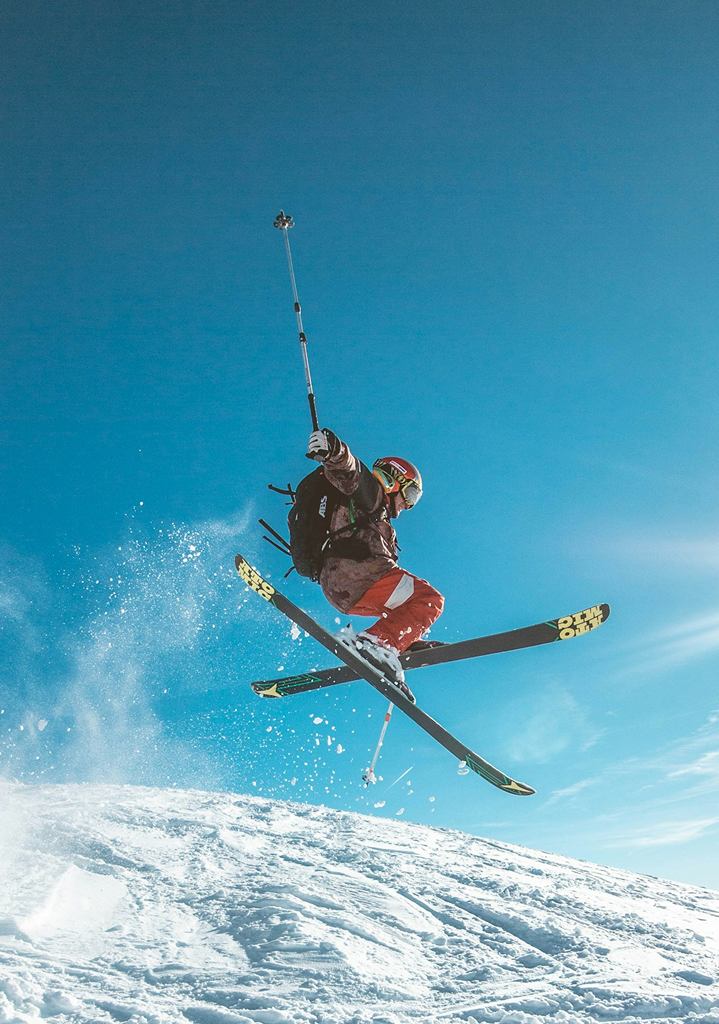
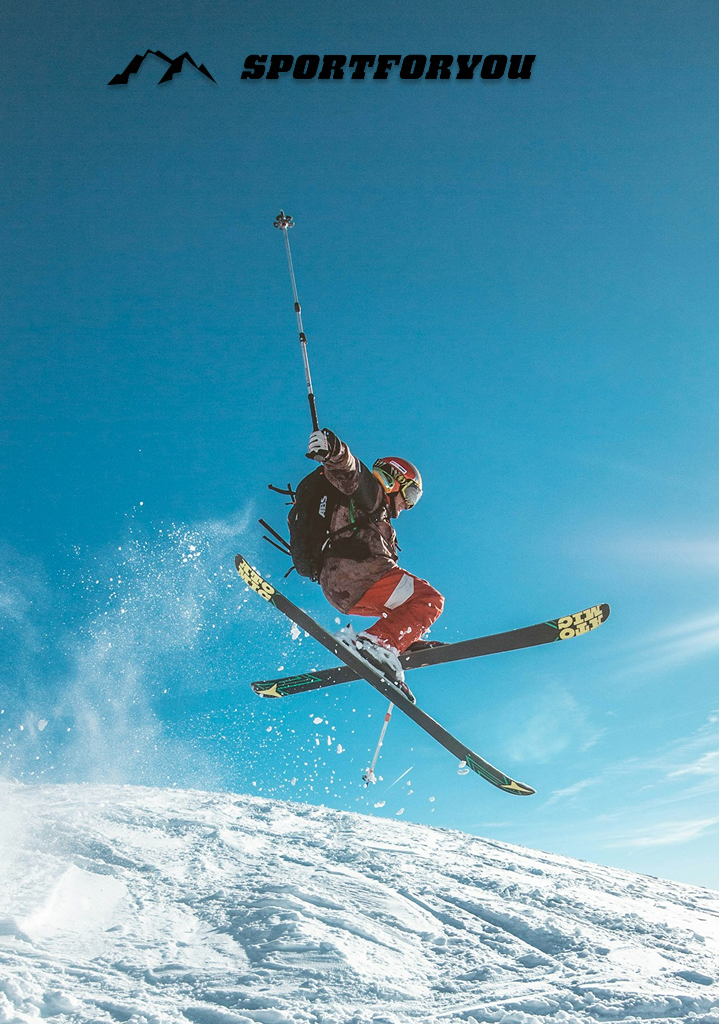
Final da aula

Changed region(s): [[0.3366, 0.0312, 0.7344, 0.0938], [0.153, 0.0312, 0.306, 0.0938]]

diff --git a/css/cadastro_user.css b/css/cadastro_user.css
@@ -7,7 +7,8 @@
 body, html {
   height: 100%;
   margin: 0;
-  overflow: hidden; /* Impede o scroll na página */
+ overflow-x: auto;  /* Permite o scroll horizontal */
+    overflow-y: hidden; /* Desabilita o scroll vertical */
 }
 
 .main-content {
@@ -22,17 +23,8 @@ body, html {
 .main-content img {
   width: 50%; /* A imagem ocupa metade da tela */
   height: 100%; /* A altura da imagem é ajustada para 100% */
-  object-fit: cover;
-}
-
-.logo {
-  position: absolute;
-  top: 20px; /* Ajuste o valor conforme necessário */
-  left: 50%; /* Centraliza horizontalmente */
-  transform: translateX(-50%); /* Ajusta a posição para que o centro da logo fique alinhado com o centro da imagem */
-  width: 5150px; /* Ajuste o tamanho da logo conforme necessário */
-  height: auto; /* Mantém a proporção da logo */
-  z-index: 10; /* Garante que a logo ficará acima da imagem */
+  object-fit: cover; /* Garante que a imagem cubra a área sem distorcer */
+  object-position: top; /* Garante que o topo da imagem seja exibido */
 }
 
 .main-content img {

diff --git a/login/form-cadastra-usuario.html b/login/form-cadastra-usuario.html
@@ -16,7 +16,7 @@
   <!-- Conteúdo Principal -->
   <main class="main-content">
     <img src="/img/img_registro.png" alt="">
-     <!-- <img src="/img/logo1.png" alt="Logo" class="logo"> -->
+
     <form action="cadastra-usuario.php" method="post" class="form-container" enctype="multipart/form-data">
 
       <h2 class="main-title">CRIE SUA CONTA</h2>
